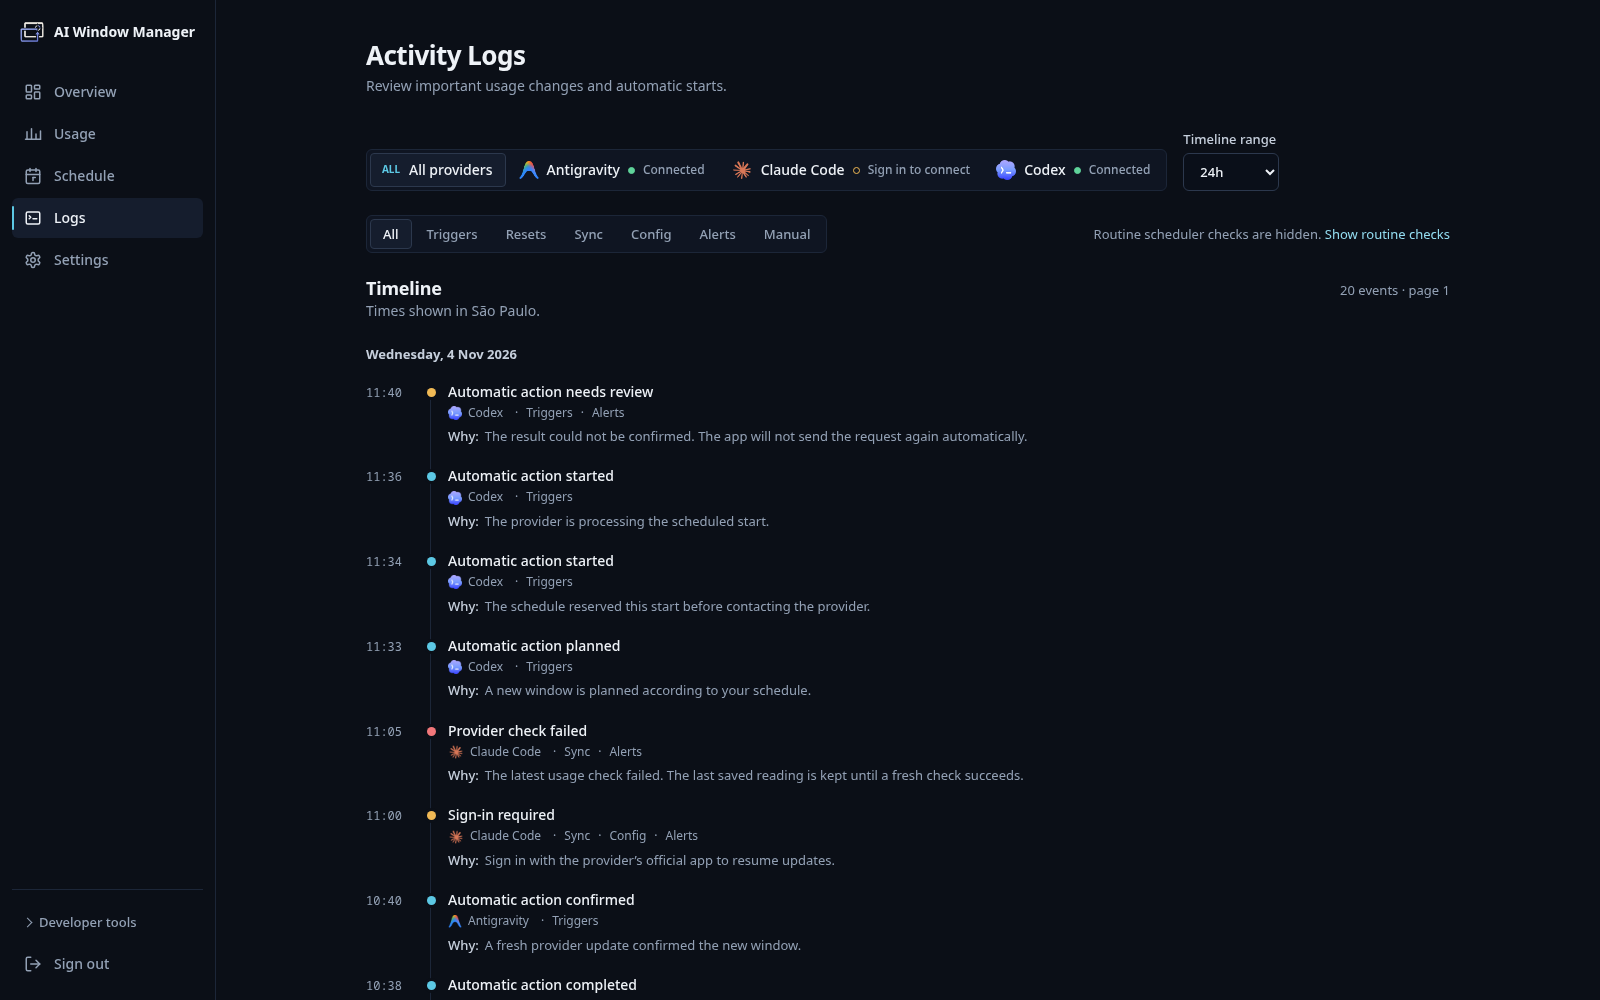
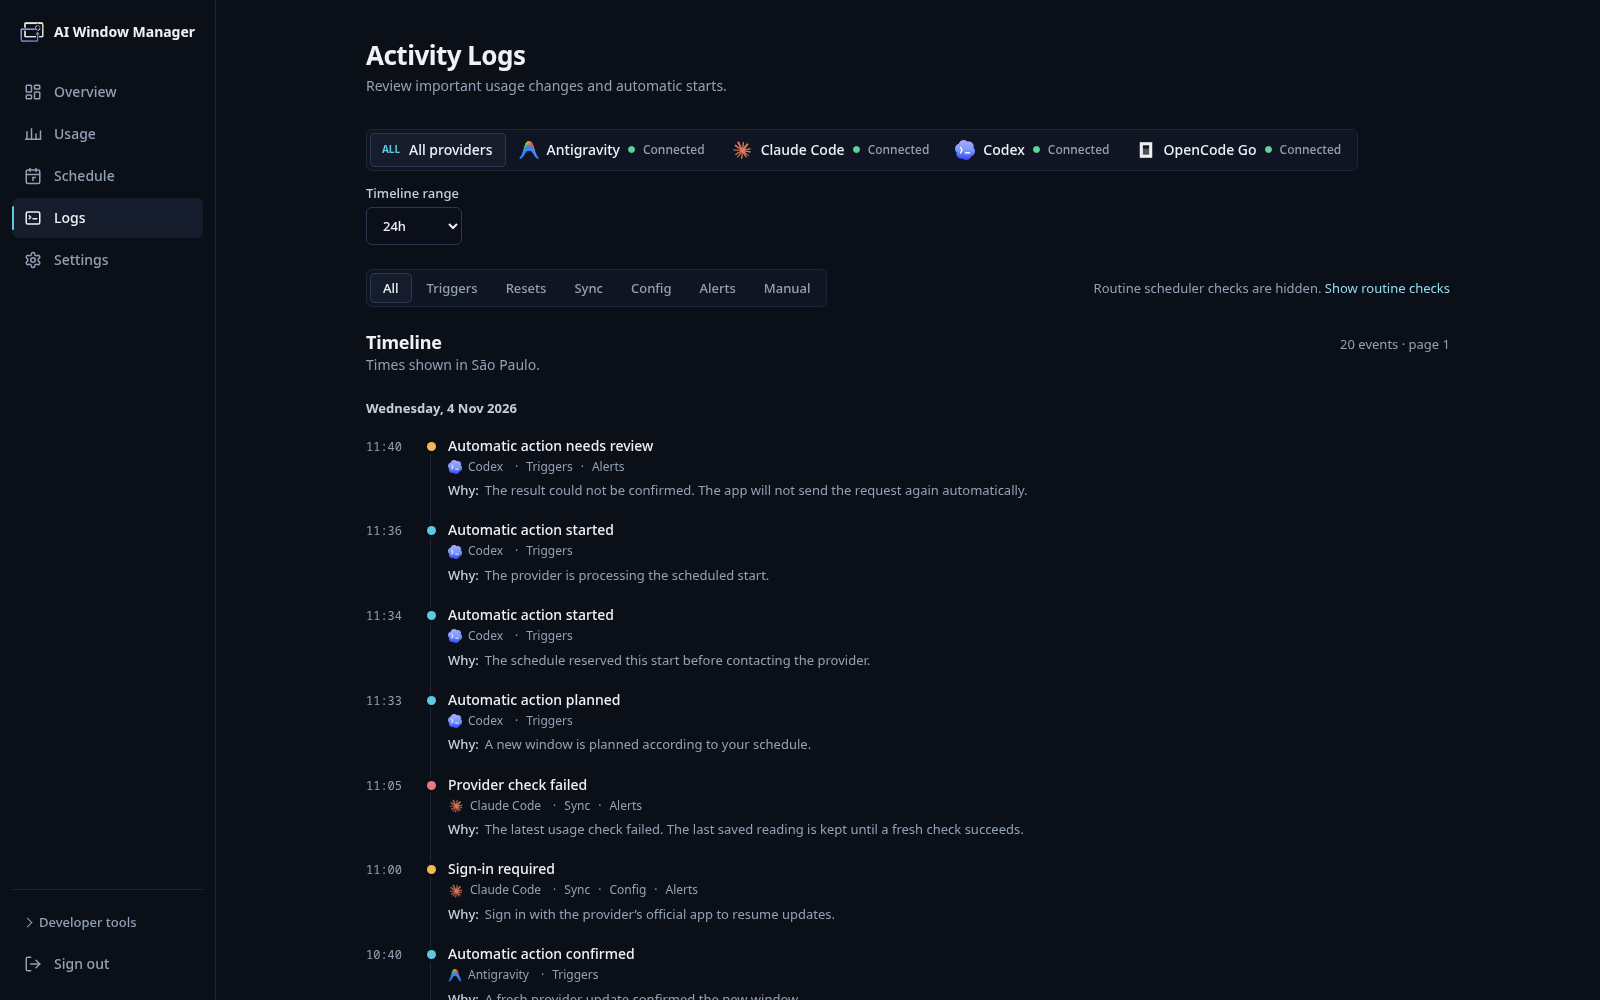
docs: add OpenCode Go to screenshots, docs and changelog
- seed a synthetic OpenCode Go provider in the UI demo, plus an opt-in
  AWM_DEMO_ALL_CONNECTED mode, and regenerate the four README screenshots
  (overview and schedule now show OpenCode Go and the 4-provider picker)
- add OpenCode Go to architecture, security, scheduling and deployment docs,
  including an image smoke check under the Compose hardening
- changelog entry; accurate README screenshot alt text

diff --git a/scripts/ui-checks/demo-server.ts b/scripts/ui-checks/demo-server.ts
@@ -5,6 +5,7 @@
 //
 // env: PORT (default 4870), AWM_DEMO_TMP (temp dir root, default os.tmpdir()),
 //      AWM_DEMO_NO_AUTOSTART (skip auto-starting the Claude Code sign-in session)
+//      AWM_DEMO_ALL_CONNECTED (seed Claude Code as connected, for README screenshots)
 import fs from 'node:fs';
 import os from 'node:os';
 import path from 'node:path';
@@ -35,6 +36,7 @@ import { processUsageAggregationBatch } from '../../src/usage/service.js';
 import { CodexProvider } from '../../src/providers/codex/index.js';
 import { AntigravityProvider } from '../../src/providers/antigravity/index.js';
 import { ClaudeCodeProvider } from '../../src/providers/claude-code/index.js';
+import { OpenCodeGoProvider } from '../../src/providers/opencode/index.js';
 import type { ProviderAdapter } from '../../src/providers/provider.js';
 import type { ProviderClientId } from '../../src/provider-clients/runtime-store.js';
 import type { ProviderClientUpdateWebControls } from '../../src/provider-clients/web-controls.js';
@@ -49,6 +51,7 @@ import type {
 } from '../../src/domain/types.js';
 
 const PORT = Number(process.env.PORT ?? 4870);
+const ALL_CONNECTED = process.env.AWM_DEMO_ALL_CONNECTED === '1';
 const NOW = '2026-11-04T15:00:00.000Z';
 const NOW_MS = Date.parse(NOW);
 const MIN = 60_000;
@@ -78,6 +81,8 @@ const config = loadConfig({
   AWM_ANTIGRAVITY_ARGON_TRIGGER_ENABLED: 'true',
   AWM_CLAUDE_CODE_ENABLED: 'true',
   AWM_CLAUDE_CODE_TRIGGER_ENABLED: 'true',
+  AWM_OPENCODE_GO_ENABLED: 'true',
+  AWM_OPENCODE_GO_TRIGGER_ENABLED: 'true',
 });
 const db = openDatabase(dbPath);
 const repositories = createRepositories(db);
@@ -101,6 +106,11 @@ const real = [
     executable: 'claude-not-run',
     triggerEnabled: true,
     triggerModel: 'haiku',
+  }),
+  new OpenCodeGoProvider({
+    homeDirectory: path.join(dir, 'oc'),
+    executable: 'opencode-not-run',
+    triggerEnabled: true,
   }),
 ];
 const adapters = new Map<string, ProviderAdapter>();
@@ -199,6 +209,13 @@ provider(
   { home: '/data/claude-code', triggerEnabled: true },
   120,
 );
+provider(
+  'opencode_go',
+  'opencode_go',
+  'automation',
+  { home: '/data/opencode-go', triggerEnabled: true },
+  120,
+);
 
 const codexObs = NOW_MS - 2 * MIN;
 const codexFiveStart = NOW_MS - 95 * MIN;
@@ -218,14 +235,30 @@ state('antigravity', 'UP', agObs, [
 const ccObs = NOW_MS - 9 * HOUR;
 state(
   'claude_code',
-  'AUTH_REQUIRED',
+  ALL_CONNECTED ? 'UP' : 'AUTH_REQUIRED',
   ccObs,
   [
     win('claude_code', 'claude_code_five_hour', 0.9, ccObs - 3 * HOUR, FIVE, ccObs, 'ACTIVE'),
     win('claude_code', 'claude_code_seven_day', 0.47, ccObs - 2 * DAY, WEEK, ccObs),
   ],
-  'CLAUDE_CODE_AUTH_REQUIRED',
+  ALL_CONNECTED ? null : 'CLAUDE_CODE_AUTH_REQUIRED',
 );
+
+// OpenCode Go: 5-hour (20% of the allowance), weekly (resets Monday 00:00 UTC) and a
+// billing-period monthly window. Synthetic values only.
+const ocObs = NOW_MS - 3 * MIN;
+state('opencode_go', 'UP', ocObs, [
+  win('opencode_go', 'opencode_go_five_hour', 0.18, NOW_MS - 80 * MIN, FIVE, ocObs),
+  win('opencode_go', 'opencode_go_weekly', 0.42, Date.parse('2026-11-02T00:00:00Z'), WEEK, ocObs),
+  win(
+    'opencode_go',
+    'opencode_go_monthly',
+    0.31,
+    Date.parse('2026-11-01T00:00:00Z'),
+    30 * 86_400,
+    ocObs,
+  ),
+]);
 
 const tz = 'America/Sao_Paulo';
 function policy(
@@ -271,6 +304,9 @@ policy(
   { windowKind: 'antigravity_argon_weekly' },
   { requiresReview: true, kindExplicit: false },
 );
+policy('activation-opencode_go', 'opencode_go', 'default', 'auto', {
+  windowKind: 'opencode_go_five_hour',
+});
 policy('activation-claude_code', 'claude_code', 'default', 'fixed', {
   windowKind: 'claude_code_five_hour',
   anchorLocalTime: '07:30',
@@ -302,6 +338,7 @@ repositories.actionIntents.createIfAbsent({
 
 // events (~42)
 const evs: Array<[number, string | null, string, EventSeverity, string | null]> = [
+  [3, 'opencode_go', 'provider_inspected', 'info', null],
   [5, 'codex', 'provider_inspected', 'info', null],
   [12, 'antigravity', 'provider_inspected', 'info', null],
   [20, 'codex', 'action_uncertain', 'warn', 'ACTION_DISPATCH_UNCERTAIN'],
@@ -314,6 +351,8 @@ const evs: Array<[number, string | null, string, EventSeverity, string | null]> 
   [82, 'antigravity', 'action_succeeded', 'info', null],
   [84, 'antigravity', 'action_claimed', 'info', null],
   [95, 'antigravity', 'action_intent_planned', 'info', null],
+  [210, 'opencode_go', 'action_succeeded', 'info', null],
+  [212, 'opencode_go', 'action_confirmed', 'info', null],
   [140, 'codex', 'unexpected_reset_detected', 'info', null],
   [190, 'codex', 'external_window_started', 'info', null],
   [260, 'antigravity', 'schedule_missed', 'warn', null],
@@ -388,6 +427,8 @@ const kinds: Array<[string, string]> = [
   ['antigravity', 'antigravity_claude_gpt_five_hour'],
   ['antigravity', 'antigravity_claude_gpt_weekly'],
   ['antigravity', 'antigravity_argon_weekly'],
+  ['opencode_go', 'opencode_go_five_hour'],
+  ['opencode_go', 'opencode_go_weekly'],
 ];
 for (let t = NOW_MS - 30 * DAY; t <= NOW_MS - 6 * MIN; t += 10 * MIN) {
   for (const [p, k] of kinds) {
@@ -459,7 +500,8 @@ const authSessions = new AuthSessionManager({
   drivers: new Map<AuthProviderId, ProviderAuthDriver>([
     ['codex', makeDriver('codex', true)],
     ['antigravity', makeDriver('antigravity', true)],
-    ['claude_code', makeDriver('claude_code', false)],
+    ['claude_code', makeDriver('claude_code', ALL_CONNECTED)],
+    ['opencode_go', makeDriver('opencode_go', true)],
   ]),
   sessionTimeoutMs: 24 * HOUR,
 });

diff --git a/docs/deployment.md b/docs/deployment.md
@@ -280,7 +280,7 @@ client in Settings and report the change; last-known-good readings are kept.
 ## Provider homes/secrets
 
 Do not mount `$HOME`. Each provider gets only the exact official-client state
-it needs. Codex, Antigravity and Claude Code runtime state volumes are isolated
+it needs. Codex, Antigravity, Claude Code and OpenCode Go runtime state volumes are isolated
 from the SQLite volume. Do not mount a workstation `~/.claude`. With `AWM_ANTIGRAVITY_ENABLED` unset, the base Compose default is
 disabled; the checked-in `.env.example` explicitly enables Antigravity for its
 local `awm` profile. The same distinction applies to Codex. Review the
@@ -399,6 +399,23 @@ docker run --rm --read-only --tmpfs /tmp:size=32m,mode=1777 \
 The command must report the Codex version pinned in
 `provider-clients.lock.json` and a successful app-server `initialize`. It
 deliberately does not log in or call `account/rateLimits/read`.
+
+The OpenCode Go image check, without credentials or a model request, runs the
+pinned client and the usage read under the Compose hardening. A signed-out home
+reports `"data":null`:
+
+```bash
+docker run --rm --read-only --tmpfs /tmp:size=32m,mode=1777 --cap-drop ALL \
+  --security-opt no-new-privileges:true --user 10001:10001 \
+  -v awm-smoke-opencode:/opencode-go-state -w /tmp --entrypoint /bin/sh \
+  ai-window-manager:dev -c 'export HOME=/opencode-go-state \
+    XDG_DATA_HOME=/opencode-go-state/.local/share XDG_CONFIG_HOME=/opencode-go-state/.config \
+    XDG_STATE_HOME=/opencode-go-state/.local/state XDG_CACHE_HOME=/opencode-go-state/.cache \
+    OPENCODE_DISABLE_AUTOUPDATE=1
+  /opt/opencode/bin/opencode --version                                        # "opencode v2.3.2"
+  /opt/opencode/bin/opencode --standalone api GET /api/experimental/usage/limits  # data:null'
+docker volume rm awm-smoke-opencode
+```
 
 The Claude Code image check, without credentials or a model request, is:
 

diff --git a/docs/scheduling.md b/docs/scheduling.md
@@ -170,6 +170,8 @@ A start is also blocked by exhaustion of any other window it consumes:
 - **Claude Code**: the five-hour and weekly canonical windows, which the official
   CLI documents as both consumed by a start. Model-scoped meters do not block a
   default-model start.
+- **OpenCode Go**: the 5-hour, weekly and monthly windows, which are shares (20%,
+  50% and 100%) of one dollar allowance, so a start counts against all three.
 - **Antigravity**: only windows of the same model family. Argon has only its
   weekly window, so it is blocked only by its own exhaustion.
 
@@ -250,6 +252,19 @@ for the existing rolling-projection inference. No other adapter emits
 medium-confidence `INACTIVE`. Only `claude_code_five_hour` is a trigger target.
 The weekly window is never started, because one request always counts against
 both allowances.
+
+### OpenCode Go phase evidence
+
+OpenCode Go's usage report always carries a reset for each meter. Before the first
+request of a 5-hour window the server reports the rolling reset five hours from
+now, which looks like an anchored window in a single snapshot. The adapter
+therefore emits zero use with a future reset as `UNKNOWN` and lets the shared cycle
+tracker decide; consumption with a future reset is `ACTIVE`, `limited` or 100% is
+`EXHAUSTED`, and an elapsed reset is `RESET_DUE`, never a new allowance. Only
+`opencode_go_five_hour` is a trigger target: the weekly window resets on Monday
+00:00 UTC and the monthly window with the paid period, so neither is ever started.
+Whether the 5-hour window restarts at the first request after it expires is not
+documented (SPIKE-008).
 
 ### Mid-cycle forced-reset recovery
 

diff --git a/docs/ui.md b/docs/ui.md
@@ -303,7 +303,7 @@ enhancement hooks. This table is the parity checklist for UI work.
 
 `scripts/ui-checks/` holds optional developer tooling for verifying the UI in a real browser. It is not part of `pnpm validate` or CI.
 
-- `pnpm ui:demo` starts the real web server on `127.0.0.1` (`PORT`, default 4870) with synthetic seed data, stub provider adapters that reject `inspect()`, fake sign-in drivers, a static client-update stub and a fixed clock. Sign in as `demo` / `demo-password`. It never contacts providers or the network. Set `AWM_DEMO_TMP` to choose the temporary directory root and `AWM_DEMO_NO_AUTOSTART=1` to skip the auto-started sign-in session.
+- `pnpm ui:demo` starts the real web server on `127.0.0.1` (`PORT`, default 4870) with synthetic seed data, stub provider adapters that reject `inspect()`, fake sign-in drivers, a static client-update stub and a fixed clock. Sign in as `demo` / `demo-password`. It never contacts providers or the network. Set `AWM_DEMO_TMP` to choose the temporary directory root, `AWM_DEMO_NO_AUTOSTART=1` to skip the auto-started sign-in session and `AWM_DEMO_ALL_CONNECTED=1` to seed every provider as connected (used for the README screenshots). The demo seeds Codex, Antigravity, Claude Code and OpenCode Go.
 - `pnpm ui:a11y <baseUrl>` runs keyboard, focus-ring, progressive-enhancement and JavaScript-disabled checks.
 - `pnpm ui:auth-flow <baseUrl> <outDir> [label]` walks the synthetic Claude Code sign-in onboarding (start the demo with `AWM_DEMO_NO_AUTOSTART=1`).
 - `pnpm ui:shots <baseUrl> <outDir> [label]` captures screenshots and reports horizontal overflow (`SHOOT_ONLY`, `SHOOT_SIZES`, `SHOOT_VIEWPORT` narrow the run).

diff --git a/docs/security.md b/docs/security.md
@@ -98,6 +98,25 @@ auth/keyring material and unrelated IDs are out of scope. This depends on an
 observed local storage layout, not an official API contract. Cleanup is
 separately durable and retries deletion only; it never causes another `Hi!`.
 
+### OpenCode Go
+
+AWM invokes only the official `opencode` binary bundled at
+`/opt/opencode/bin/opencode` (pinned version and SHA-256 in the Dockerfile; see
+[ADR-011](adr/011-opencode-go-provider.md)), in a dedicated state volume
+(`/opencode-go-state`) that is `HOME` and every XDG base directory, from an empty
+private working directory. The environment is an allowlist: the isolated home
+variables, `PATH`, locale and `TZ`, with the updater disabled. Inherited variables,
+including `OPENCODE_*` keys and AWM's own secrets, never reach the client. AWM never
+reads `auth.json` or `opencode.db`, never calls an OpenCode HTTP endpoint, and the
+client keeps the Console credential in its own volume. The start never passes
+`--auto`, so any permission request is rejected, and event text is never parsed or
+stored; only the event type, the session ID and the provider error class are read.
+
+Sign-in exposes only `https://opencode.ai/console/device` with a `user_code`
+(`XXXX-XXXX`) and an optional `client_id=opencode-cli`; the link is held in memory
+and the code is public by design, since it only authorizes the operator's own
+approval in their browser. The trigger session is deleted by exact ID only.
+
 ### Claude Code
 
 AWM invokes only the official Claude Code binary pinned in

diff --git a/docs/architecture.md b/docs/architecture.md
@@ -115,6 +115,17 @@ code is not stored. The CLI's read-only
 volume remains separate. See ADR-009 for the security boundary and manual
 terminal fallback.
 
+For OpenCode Go, monitoring runs the official `opencode` client's private
+server (`opencode --standalone api GET /api/experimental/usage/limits`, no model
+request) in a dedicated home, so the client keeps its own Console login and AWM
+never reads credentials. The 5-hour window is the only start target: AWM
+generates the exact session ID, persists an `opencode_session` cleanup job, then
+runs one bounded `opencode run --session <id> ... "Hi!"`. The session is deleted by
+the cleanup worker with `opencode session delete <id>` and a failed deletion never
+repeats the prompt. Sign-in uses the shared `AuthSessionManager` with the official
+OAuth device flow (`--method device`): AWM shows a validated
+`opencode.ai/console/device` link and one-time code and relays nothing back.
+
 For Codex the action is one `turn/start` through the official app-server. For
 Antigravity the experimental action uses the official `agy` stream-JSON
 headless protocol, registers its returned conversation ID durably, then sends

diff --git a/README.md b/README.md
@@ -280,7 +280,7 @@ for troubleshooting and operational details.
 The overview is the main entry point. Expand the other screens to see usage,
 scheduling, and activity details.
 
-![AI Window Manager overview showing connected providers, current usage windows, and selected start policies](assets/images/screenshots/overview.png)
+![AI Window Manager overview showing the connected providers (Antigravity, Claude Code, Codex and OpenCode Go) and OpenCode Go's 5-hour, weekly and monthly usage windows](assets/images/screenshots/overview.png)
 
 <details>
 <summary>More app screens</summary>
@@ -291,7 +291,7 @@ scheduling, and activity details.
 
 **Schedule — provider, model family, target window, and start policy**
 
-![Schedule page showing an activation policy for a selected provider window](assets/images/screenshots/schedule.png)
+![Schedule page showing the start policy for OpenCode Go's 5-hour window](assets/images/screenshots/schedule.png)
 
 **Logs — paginated observations and decisions**
 

diff --git a/CHANGELOG.md b/CHANGELOG.md
@@ -4,6 +4,16 @@
 
 ### Added
 
+- Add an OpenCode Go provider (see ADR-011 and SPIKE-008). Monitor its 5-hour,
+  weekly and monthly windows through the official `opencode` client's private
+  server in an isolated home, so AWM never reads credentials. Only the 5-hour
+  window can be started, with one ordinary `Hi!` (opt out with
+  `AWM_OPENCODE_GO_TRIGGER_ENABLED=false`); the start session is registered for
+  cleanup before dispatch and deleted by exact ID. Sign-in is guided in Settings
+  through the official OAuth device flow. The image bundles the pinned OpenCode
+  v2.3.2 client. Adds migration 015 (`opencode_session` cleanup kind), the
+  `opencode_go` provider logo, and an OpenCode Go entry in the demo and README
+  screenshots.
 - Guide Claude Code's official sign-in through the shared AWM authentication
   session. Validate `claude.com` links, forward an optional one-time code only
   to the active CLI process, verify with `auth status --json`, and keep the
